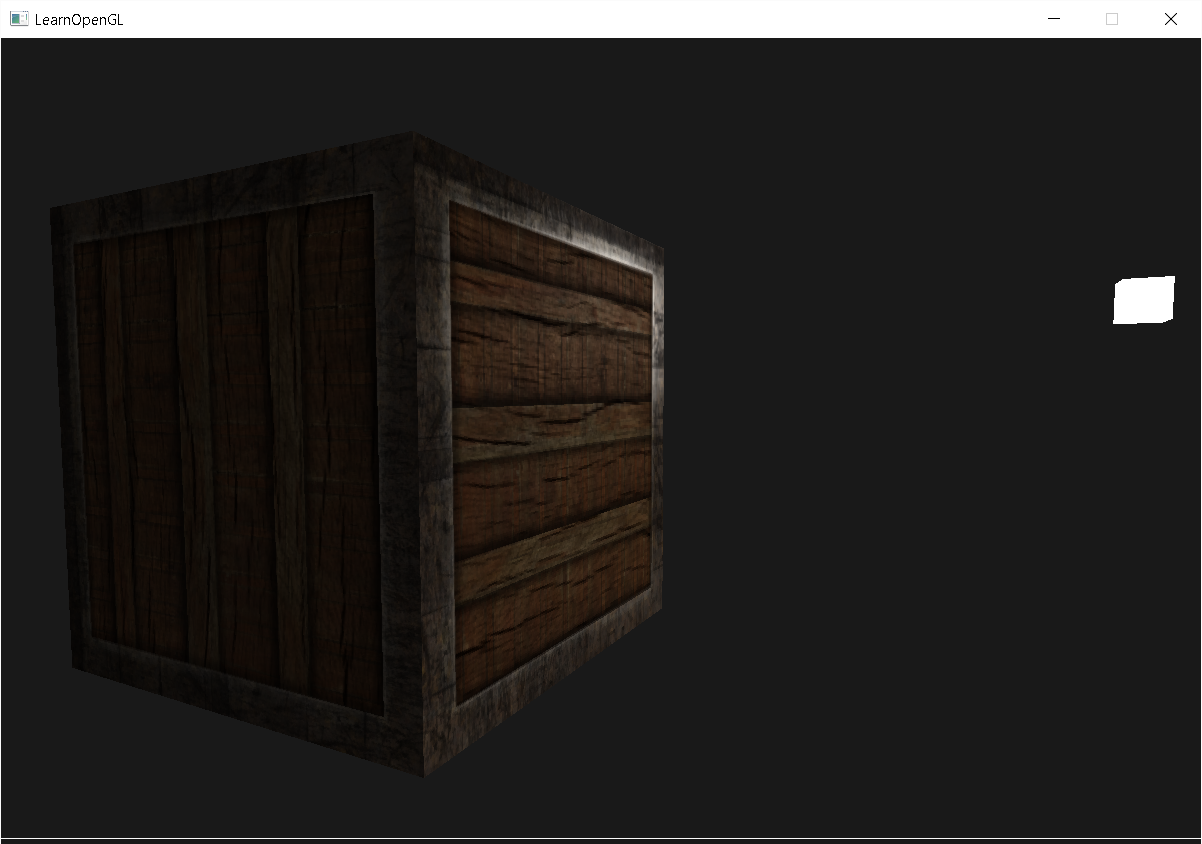
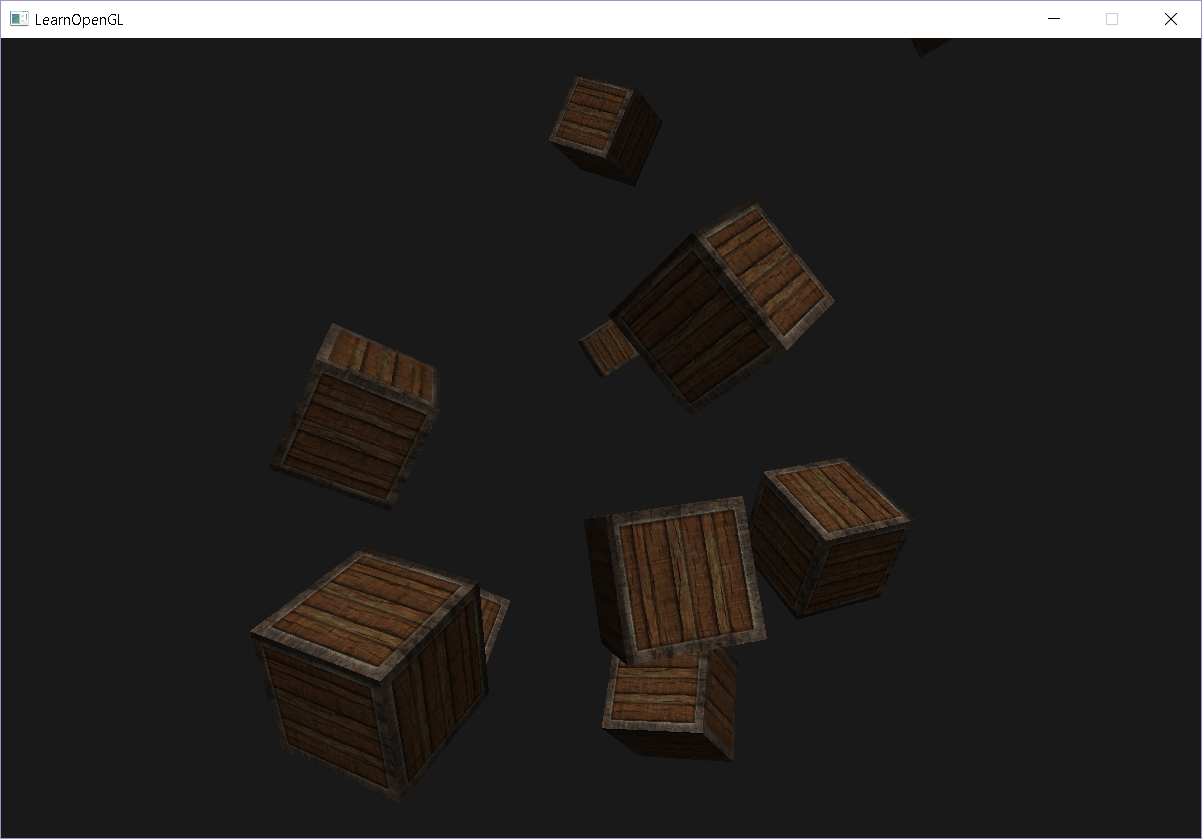
Fancy cubes with directional lightning

diff --git a/OpenGlFirst/Test.cpp b/OpenGlFirst/Test.cpp
@@ -85,6 +85,22 @@ int main()
 		Shader lampShader("C:\\Users\\Vadim\\Documents\\Visual Studio 2012\\Projects\\OpenGlFirst\\shaders\\lamp.vs", 
 		"C:\\Users\\Vadim\\Documents\\Visual Studio 2012\\Projects\\OpenGlFirst\\shaders\\lamp.frag");
 
+		// Draw moar cubes!
+	glm::vec3 cubePositions[] = 
+	{
+		glm::vec3( 0.0f, 0.0f, 0.0f),
+		glm::vec3( 2.0f, 5.0f, -15.0f),
+		glm::vec3(-1.5f, -2.2f, -2.5f),
+		glm::vec3(-3.8f, -2.0f, -12.3f),
+		glm::vec3( 2.4f, -0.4f, -3.5f),
+		glm::vec3(-1.7f, 3.0f, -7.5f),
+		glm::vec3( 1.3f, -2.0f, -2.5f),
+		glm::vec3( 1.5f, 2.0f, -2.5f),
+		glm::vec3( 1.5f, 0.2f, -1.5f),
+		glm::vec3(-1.3f, 1.0f, -1.5f) 
+	};
+
+
   GLfloat vertices[] = {
     // Positions           // Normals           // Texture Coords
     -0.5f, -0.5f, -0.5f,  0.0f,  0.0f, -1.0f,  0.0f, 0.0f,
@@ -225,12 +241,14 @@ int main()
 		GLint lightAmbientLoc  = glGetUniformLocation(lightingShader.Program, "light.ambient");
 		GLint lightDiffuseLoc  = glGetUniformLocation(lightingShader.Program, "light.diffuse");
 		GLint lightSpecularLoc = glGetUniformLocation(lightingShader.Program, "light.specular");
-		
+		GLint lightDirPos = glGetUniformLocation(lightingShader.Program, "light.direction");
+
 		glUniform3f(lightAmbientLoc,  .2f, 0.2f, 0.2f);
 		glUniform3f(lightColorLoc,  1.f, 1.0f, 1.0f);
 		glUniform3f(lightDiffuseLoc, 0.7, 0.7, 0.7);
 		glUniform3f(lightSpecularLoc,  1.f, 1.f, 1.f);
-	
+		glUniform3f(lightDirPos, -.2f, -1.f, -.3f);
+
 		glUniform3f(matSpecularLoc,  0.5f, 0.5f, 0.5f);
 		glUniform1f(matShineLoc, 64.0f);
 		
@@ -256,7 +274,7 @@ int main()
 		zRotOffset = sinf(glfwGetTime());
 		multiplier = 5.f;
 		// glUniform3f(lightPosLoc,    xRotOffset* multiplier, yRotOffset*multiplier, zRotOffset*multiplier);
-		glUniform3f(lightPosLoc,    3.0, 0.55, 4.0);
+		glUniform3f(lightPosLoc, 3.0, 0.55, 4.0);
 
 
 		// Bind diffuse map
@@ -270,10 +288,17 @@ int main()
         // Draw the container (using container's vertex attributes)
         glBindVertexArray(containerVAO);
         glm::mat4 model;
-		model = glm::translate(model, glm::vec3(0.f, 0.f, /*tanf(glfwGetTime()/5)*5.f)*/ 2.f));
-        glUniformMatrix4fv(modelLoc, 1, GL_FALSE, glm::value_ptr(model));
-        glDrawArrays(GL_TRIANGLES, 0, 36);
-        glBindVertexArray(0);
+		       
+		for(GLuint i = 0; i < 10; i++) 
+		{
+			model = glm::mat4(); model = glm::translate(model, cubePositions[i]);
+			GLfloat angle = 20.0f * i; 
+			model = glm::rotate(model, angle, glm::vec3(1.0f, 0.3f, 0.5f)); 
+			glUniformMatrix4fv(modelLoc, 1, GL_FALSE, glm::value_ptr(model));
+			glDrawArrays(GL_TRIANGLES, 0, 36); 
+		}
+	
+		glBindVertexArray(0);
 
         // Also draw the lamp object, again binding the appropriate shader
         lampShader.Use();
@@ -281,6 +306,7 @@ int main()
         modelLoc = glGetUniformLocation(lampShader.Program, "model");
         viewLoc  = glGetUniformLocation(lampShader.Program, "view");
         projLoc  = glGetUniformLocation(lampShader.Program, "projection");
+
         // Set matrices
         glUniformMatrix4fv(viewLoc, 1, GL_FALSE, glm::value_ptr(view));
         glUniformMatrix4fv(projLoc, 1, GL_FALSE, glm::value_ptr(projection));
@@ -289,11 +315,13 @@ int main()
         model = glm::translate(model, glm::vec3( 3.0, 0.55, 4.0));
 		model = glm::scale(model, glm::vec3(0.2f)); // Make it a smaller cube
         glUniformMatrix4fv(modelLoc, 1, GL_FALSE, glm::value_ptr(model));
-        // Draw the light object (using light's vertex attributes)
+
+		
+		// Draw the light object (using light's vertex attributes)
         glBindVertexArray(lightVAO);
         glDrawArrays(GL_TRIANGLES, 0, 36);
         glBindVertexArray(0);
-
+		
         // Swap the screen buffers
         glfwSwapBuffers(window);
     }
